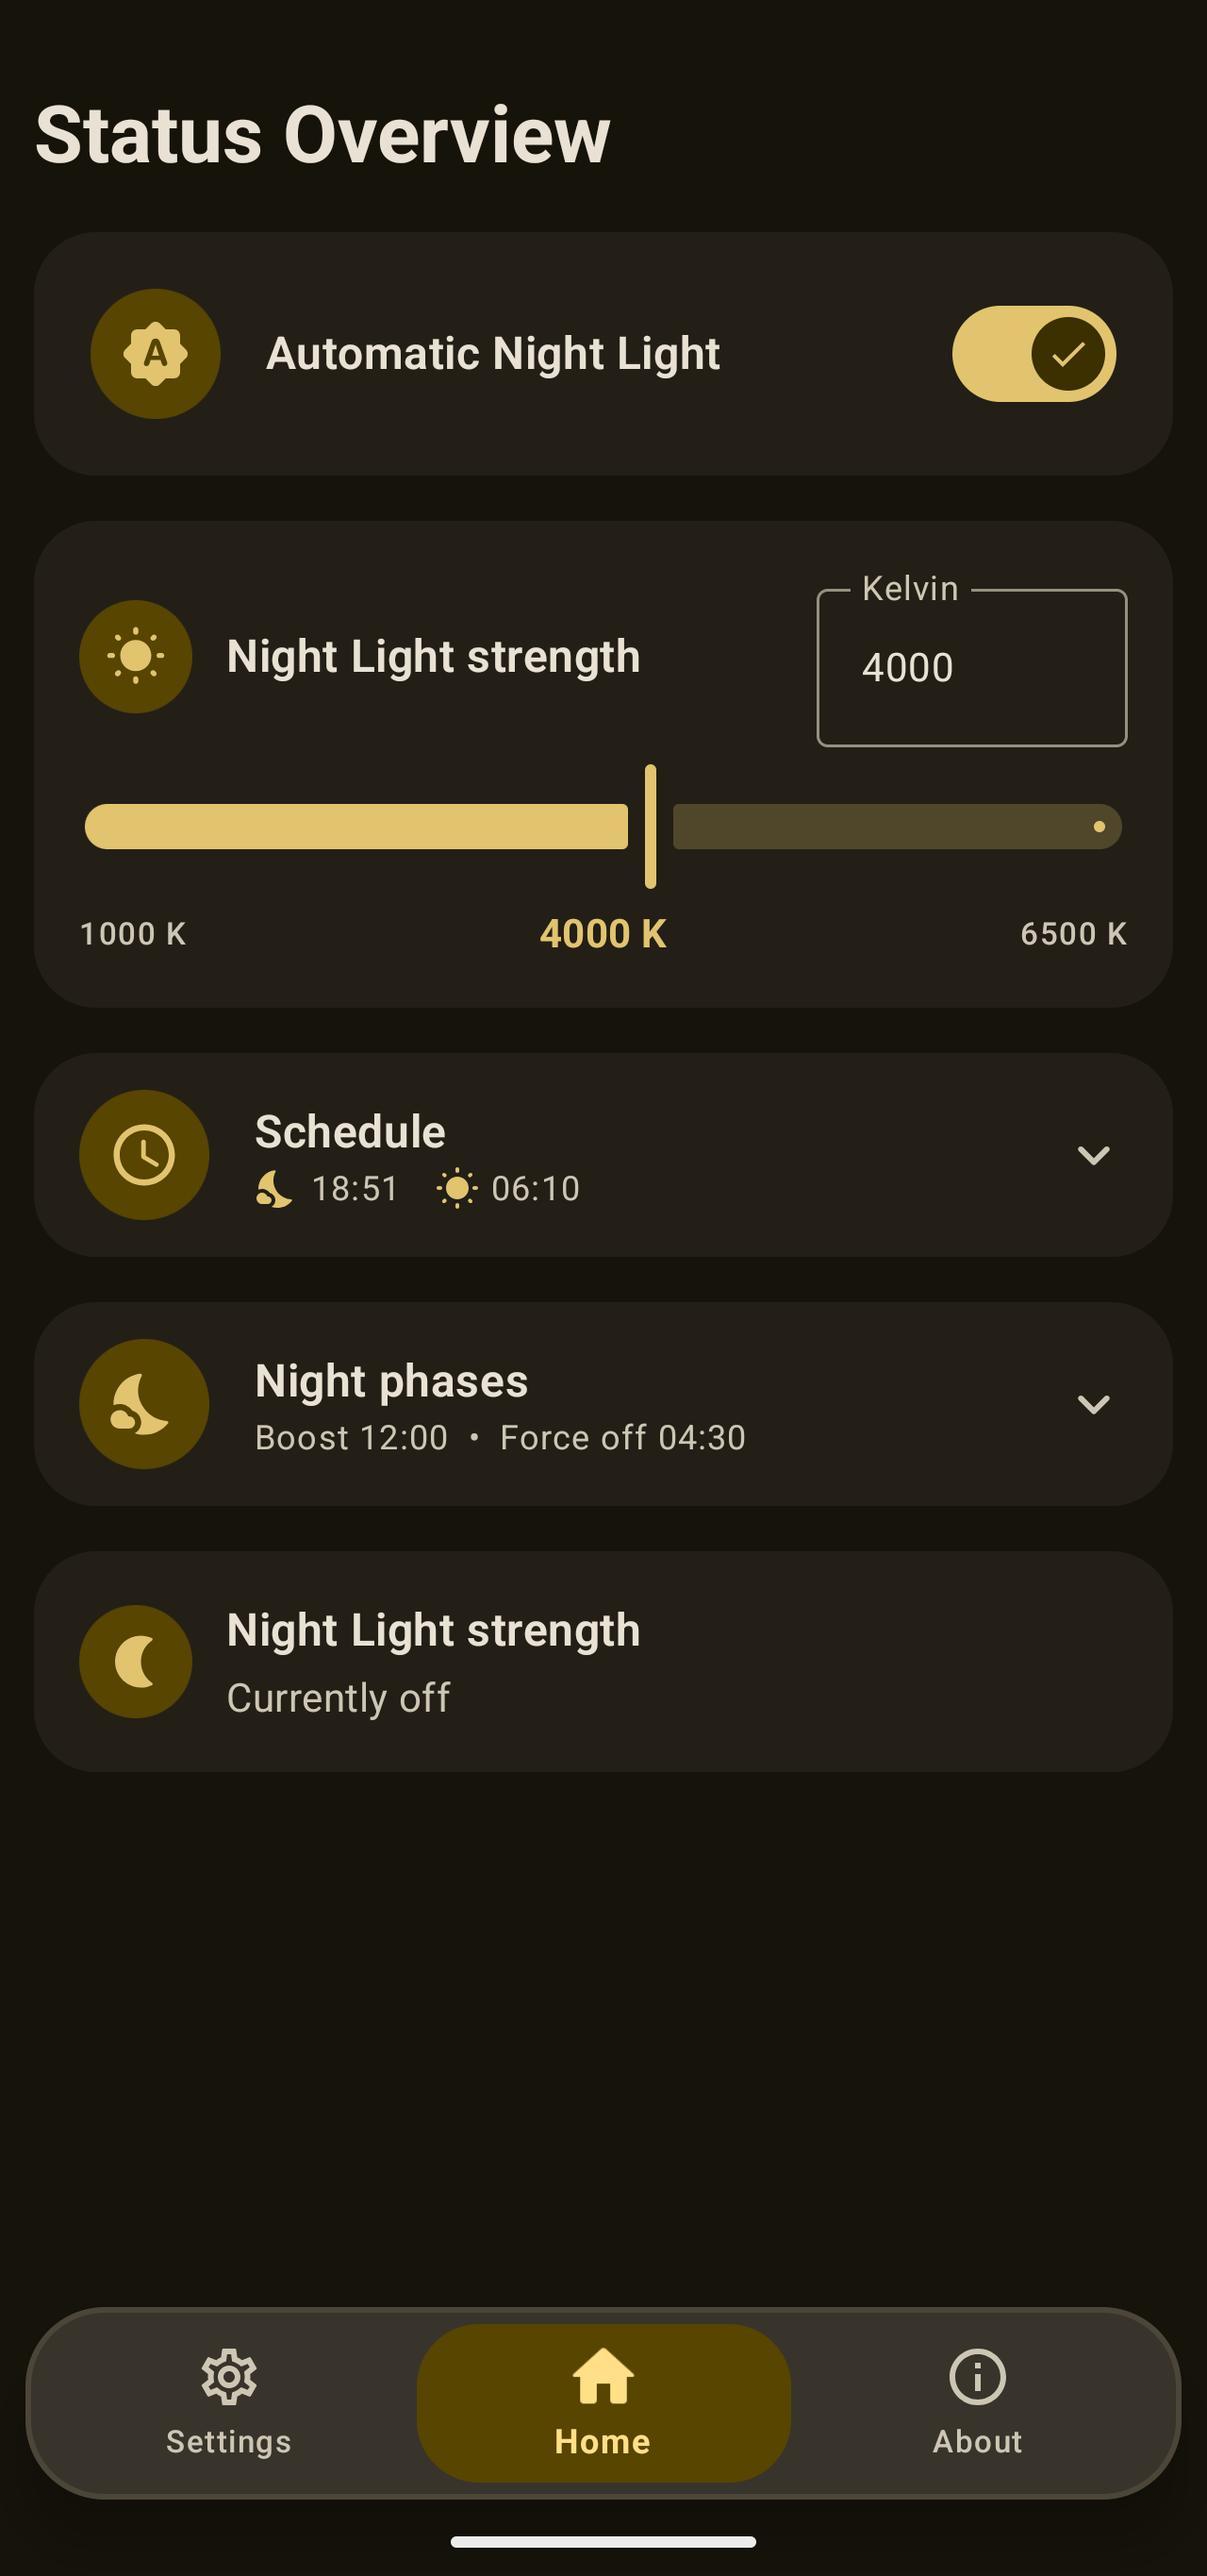
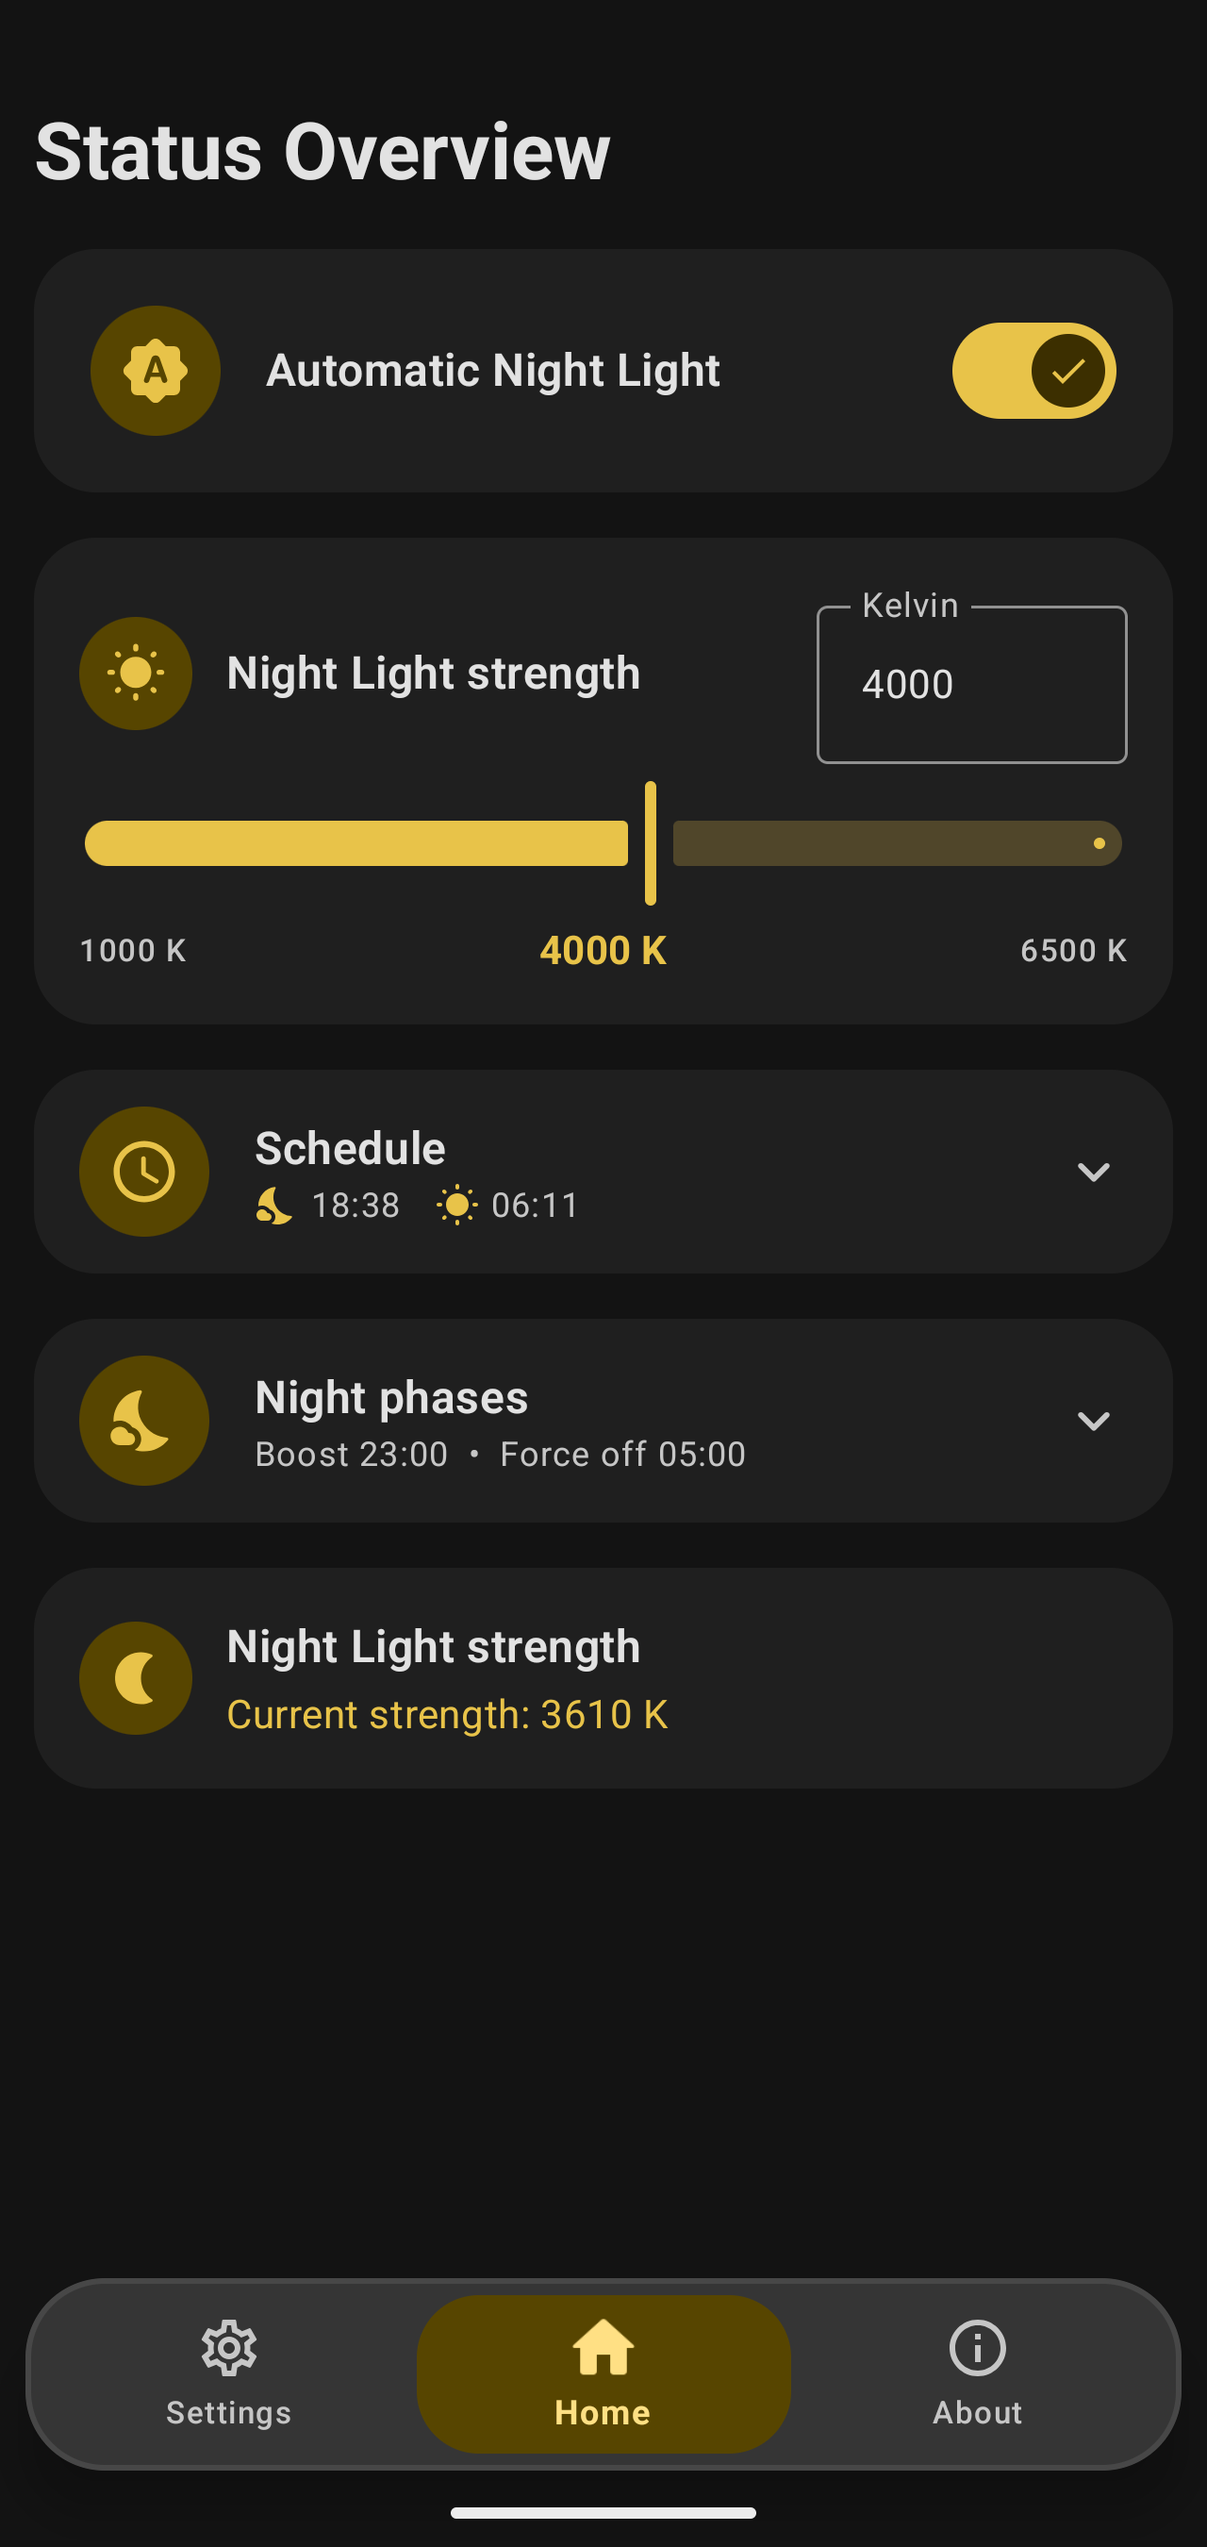
update phone screenshots and display four of them in README

diff --git a/README.md b/README.md
@@ -22,7 +22,8 @@
 <div align="center">
 <img src="fastlane/metadata/android/en-US/images/phoneScreenshots/1.png" width="250" alt="Screenshot 1"/>&nbsp;&nbsp;&nbsp;
 <img src="fastlane/metadata/android/en-US/images/phoneScreenshots/2.png" width="250" alt="Screenshot 2"/>&nbsp;&nbsp;&nbsp;
-<img src="fastlane/metadata/android/en-US/images/phoneScreenshots/3.png" width="250" alt="Screenshot 3"/>
+<img src="fastlane/metadata/android/en-US/images/phoneScreenshots/3.png" width="250" alt="Screenshot 3"/>&nbsp;&nbsp;&nbsp;
+<img src="fastlane/metadata/android/en-US/images/phoneScreenshots/4.png" width="250" alt="Screenshot 4"/>
 </div>
 
 ## Features
